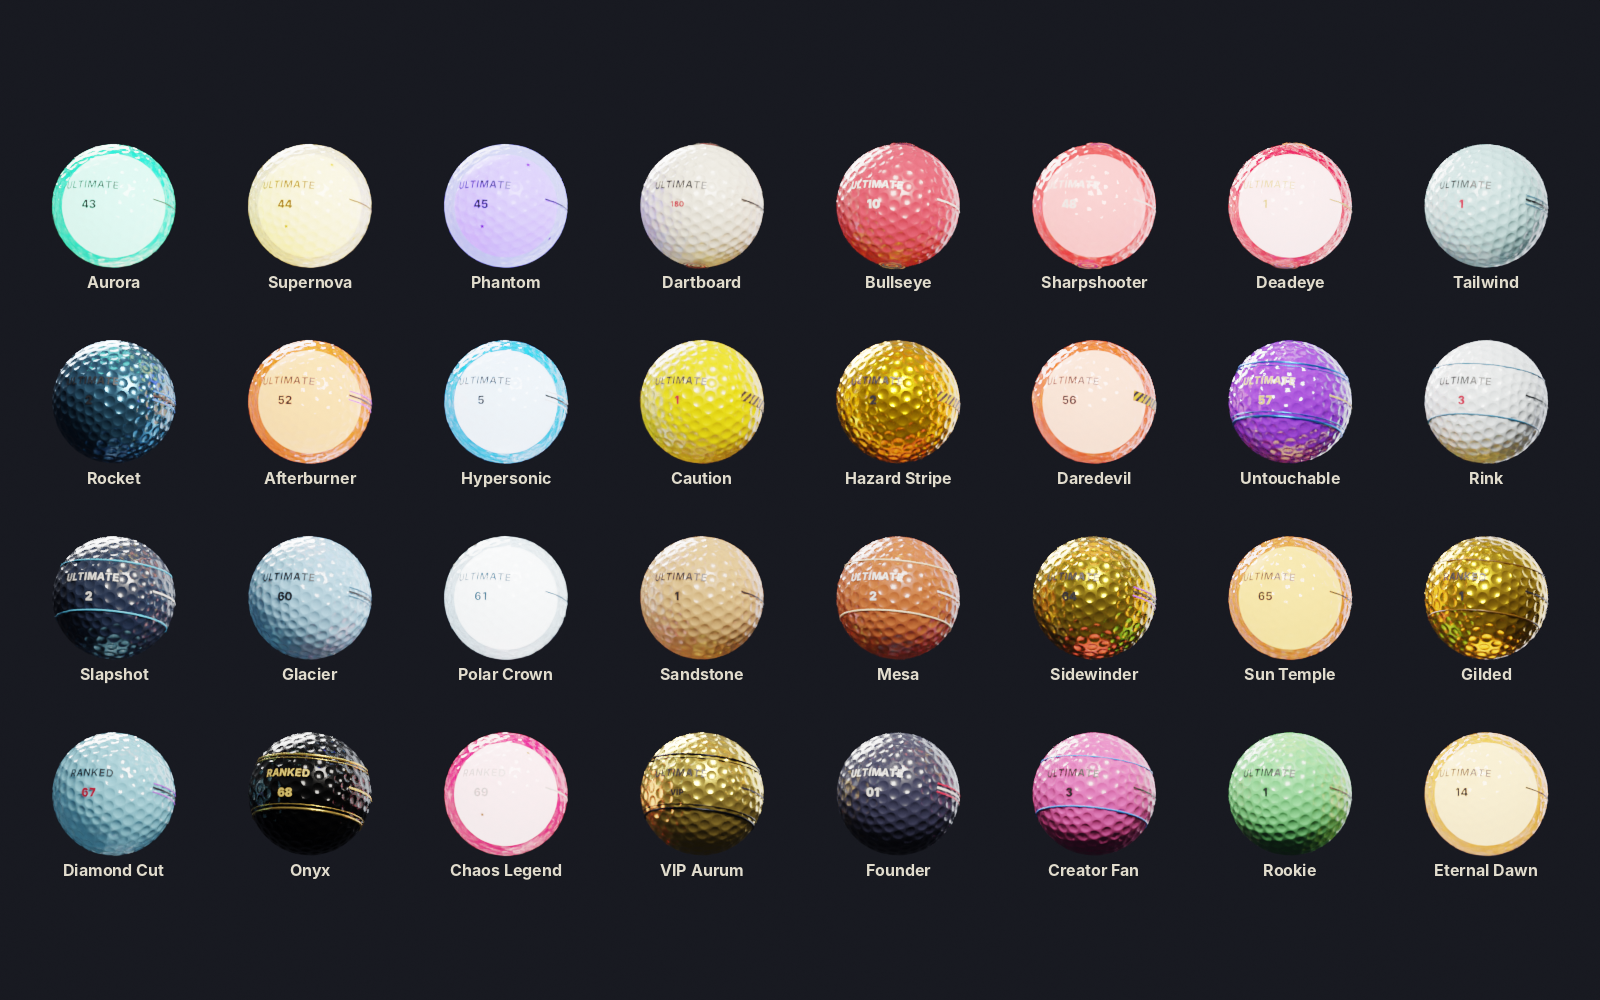
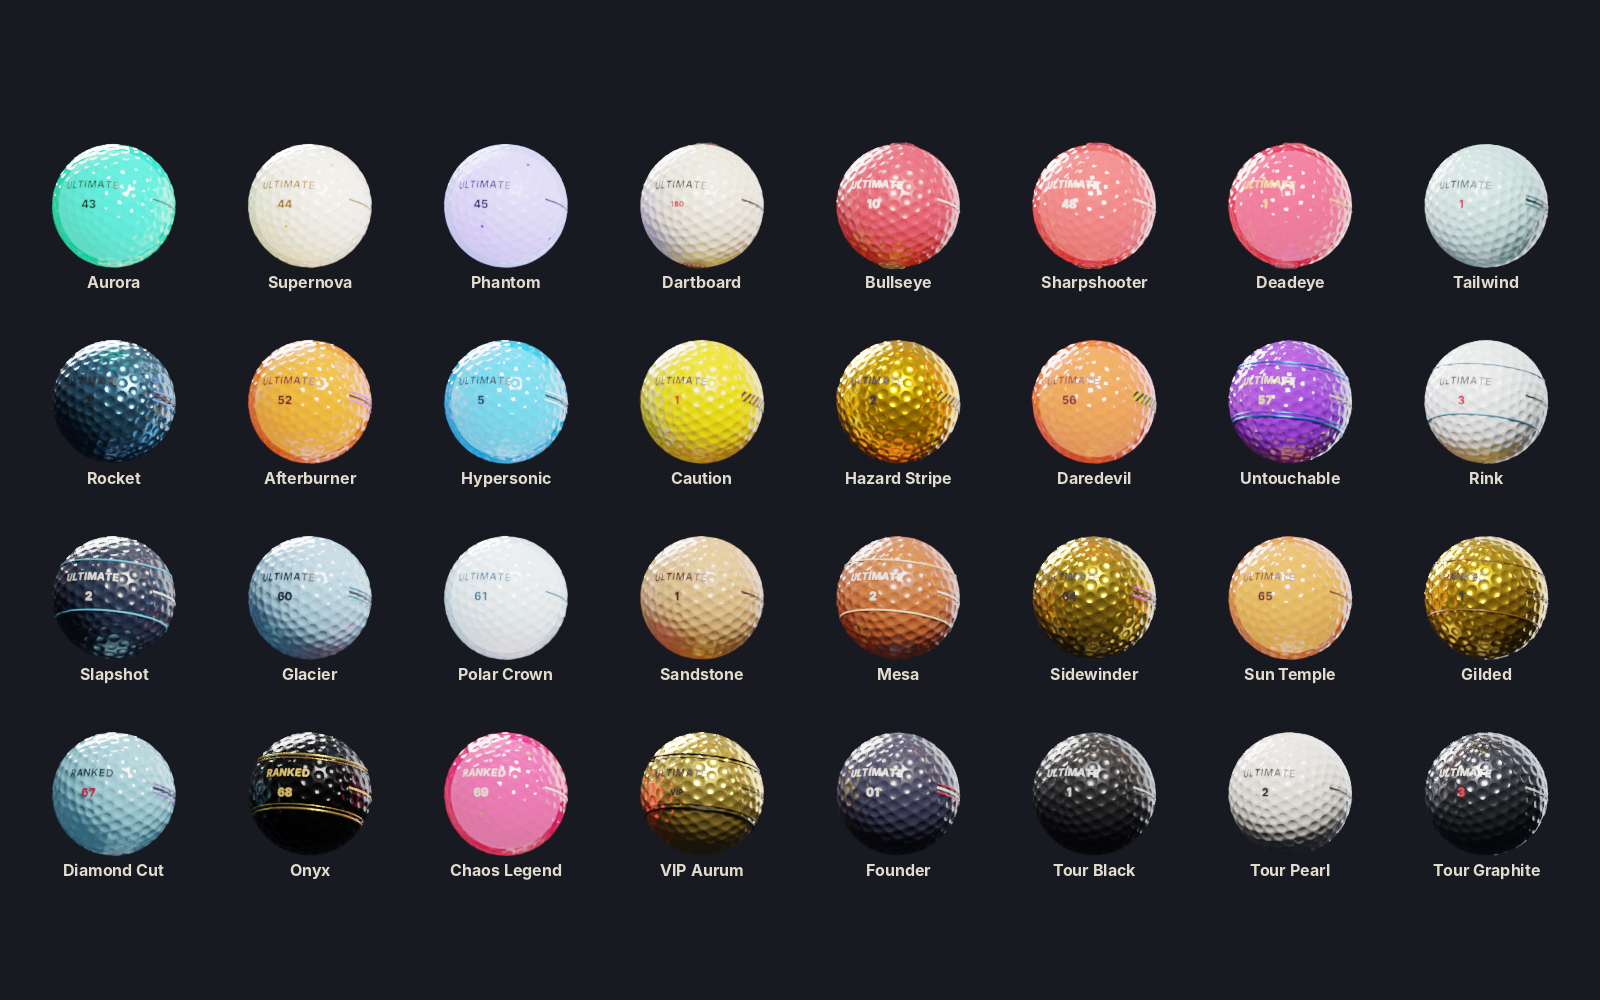
Studio exclusive shades, 9 R$ limited ball, softer glow balls
- Ball Studio: six shades no other ball wears (Sage, Mauve, Cornflower, Peach,
  Mulberry, Bronze Olive) and four inks; unit test keeps every skin clear of
  them; retired shades migrate to the default.
- Corny Games Studio limited ball is a 9 R$ developer product: the vault
  prompts the purchase, the receipt reserves the serial; a late or duplicate
  receipt pays 200 coins instead.
- Glowing balls glow softly: mostly opaque shell, inner light that nearly
  fills it and takes the shell's hue, dimmer point light, sparser aura,
  gentler rainbow.
- New Studio pass and limited product icons; refreshed collection sheets.

Claude-Session: https://claude.ai/code/session_018X1FwFM7GZ5JkuTghsAPuQ

diff --git a/chaos-golf/tools/gen_pass_icons.py b/chaos-golf/tools/gen_pass_icons.py
@@ -1,14 +1,15 @@
 #!/usr/bin/env python3
-"""Ultimate Golf - icons for the cosmetic passes (Ball Studio, Tour, Heritage, Members Club).
+"""Ultimate Golf - icons for the cosmetic passes (Ball Studio, Tour, Heritage, Members Club)
+and the limited Corny Games Studio ball product.
 
 Composites transparent ball renders (tools/render_balls.py --transparent) onto a club-style
 badge. Content stays inside the central circle (Roblox crops pass icons to a circle).
 
 Usage:
   tests/boot/dump_balls.sh <luau> <defs> balls.txt
-  python tools/render_balls.py balls.txt --only tour_black,tour_pearl,tour_graphite,heritage_cream,heritage_forest,heritage_oxblood \
+  python tools/render_balls.py balls.txt --only tour_black,tour_pearl,tour_graphite,heritage_cream,heritage_forest,heritage_oxblood,corny_studio \
       --views three --transparent --res 900x900 --out RENDERS
-  python3 tools/gen_pass_icons.py RENDERS
+  python3 tools/gen_pass_icons.py RENDERS [icon.png ...]
 """
 import math
 import os
@@ -119,12 +120,13 @@ def tinted(renders, ball_id, size, rgb):
 
 def studio(renders):
     img = badge((38, 40, 46), (12, 13, 15), (226, 185, 91))
-    colours = [(31, 91, 255), (200, 16, 46), (232, 240, 50), (46, 139, 87)]
+    # The studio-only shades (Skins.Studio.Colors): Mulberry, Cornflower, Peach, Bronze Olive.
+    colours = [(122, 46, 78), (122, 156, 217), (246, 193, 160), (122, 106, 46)]
     spots = [(S * 0.25, S * 0.47, 250), (S * 0.75, S * 0.47, 250), (S * 0.36, S * 0.36, 230), (S * 0.64, S * 0.36, 230)]
     for (x, y, size), rgb in zip([spots[2], spots[3], spots[0], spots[1]], colours):
         b = tinted(renders, "tour_pearl", size, rgb)
         img.alpha_composite(b, (int(x - b.size[0] / 2), int(y - b.size[1] / 2)))
-    centre = ball(renders, "tour_pearl", 400)
+    centre = tinted(renders, "tour_pearl", 400, (156, 175, 136))  # Sage
     shadow(img, (S * 0.5, S * 0.55 + 190), 400)
     img.alpha_composite(centre, (int(S * 0.5 - centre.size[0] / 2), int(S * 0.55 - centre.size[1] / 2)))
     dr = ImageDraw.Draw(img)
@@ -134,17 +136,37 @@ def studio(renders):
     return img
 
 
+def limited(renders):
+    gold = (226, 185, 91)
+    img = badge((34, 32, 30), (8, 8, 9), gold)
+    b = ball(renders, "corny_studio", 520)
+    shadow(img, (S * 0.5, S * 0.47 + 250), 520, 140)
+    img.alpha_composite(b, (int(S * 0.5 - b.size[0] / 2), int(S * 0.47 - b.size[1] / 2)))
+    dr = ImageDraw.Draw(img)
+    f = font(FONT, 84)
+    w = dr.textlength("LIMITED", font=f)
+    dr.text(((S - w) / 2, S * 0.76), "LIMITED", font=f, fill=gold + (255,))
+    f2 = font(FONT_SEMI, 40)
+    w2 = dr.textlength("500 EVER MADE", font=f2)
+    dr.text(((S - w2) / 2, S * 0.855), "500 EVER MADE", font=f2, fill=(236, 238, 242, 255))
+    return img
+
+
 def main():
     renders = sys.argv[1] if len(sys.argv) > 1 else os.path.join(ROOT, "docs", "renders", "balls")
     os.makedirs(OUT, exist_ok=True)
+    only = set(sys.argv[2:])  # optional: just these icons, e.g. pass_studio.png
     icons = {
-        "pass_tour.png": trio(renders, ["tour_black", "tour_pearl", "tour_graphite"], (40, 42, 47), (12, 13, 15), (226, 185, 91), "TOUR", (236, 238, 242)),
-        "pass_heritage.png": trio(renders, ["heritage_cream", "heritage_forest", "heritage_oxblood"], (28, 74, 55), (11, 32, 24), (226, 185, 91), "HERITAGE", (239, 230, 207)),
-        "pass_members.png": members(),
-        "pass_studio.png": studio(renders),
+        "pass_tour.png": lambda: trio(renders, ["tour_black", "tour_pearl", "tour_graphite"], (40, 42, 47), (12, 13, 15), (226, 185, 91), "TOUR", (236, 238, 242)),
+        "pass_heritage.png": lambda: trio(renders, ["heritage_cream", "heritage_forest", "heritage_oxblood"], (28, 74, 55), (11, 32, 24), (226, 185, 91), "HERITAGE", (239, 230, 207)),
+        "pass_members.png": members,
+        "pass_studio.png": lambda: studio(renders),
+        "product_limited_ball.png": lambda: limited(renders),
     }
-    for name, img in icons.items():
-        img.resize((FINAL, FINAL), Image.LANCZOS).save(os.path.join(OUT, name))
+    for name, make in icons.items():
+        if only and name not in only:
+            continue
+        make().resize((FINAL, FINAL), Image.LANCZOS).save(os.path.join(OUT, name))
         print("wrote", os.path.join(OUT, name))
 
 

diff --git a/chaos-golf/tools/setup_monetization.py b/chaos-golf/tools/setup_monetization.py
@@ -24,7 +24,7 @@ PASSES = [  # (Config key, name, price, description, icon, for sale)
      "pass_celebrations.png", True),
     ("Founder", "Founder", 99, "Founder Epic skin and the FOUNDER title. Launch only!", "pass_founder.png", True),
     ("BallStudio", "Ball Studio", 199,
-     "Paint your own ball in the Locker: 24 colours, 4 finishes (gloss, matte, pearl, metallic) and 6 print inks. Cosmetic only.",
+     "Paint your own ball in the Locker: 6 shades no other ball has (Sage, Mauve, Cornflower, Peach, Mulberry, Bronze Olive), 4 finishes and 4 print inks. Cosmetic only.",
      "pass_studio.png", True),
     ("TourCollection", "Tour Collection", 299,
      "Three tour balls for your locker: Tour Black, Tour Pearl and Tour Graphite. Cosmetic only.", "pass_tour.png", True),
@@ -41,6 +41,9 @@ PRODUCTS = [  # (Config key, name, price, description, icon)
     ("MythicCrate", "Mythic Featured Crate", 99,
      "Open 1 Mythic Featured Crate (odds shown in game). If the global stock is sold out you get 6,000 coins instead.",
      "product_mythic_crate.png"),
+    ("LimitedBall", "Corny Games Studio Ball", 9,
+     "One numbered Corny Games Studio ball (500 ever made). If the last copy sells first you get 200 coins instead.",
+     "product_limited_ball.png"),
 ]
 
 

diff --git a/chaos-golf/docs/GDD.md b/chaos-golf/docs/GDD.md
@@ -50,7 +50,7 @@ A circular marble-and-walnut atrium (radius 56) under an oak ceiling on black-st
 ### East: Pro Shop
 
 - **Ball collection**: 12 balls in jewellery-style glass cases (walnut plinths, brass edges, velvet decks, engraved plaques). A balanced set (5 Common, 4 Rare, 2 Epic, 1 Legendary) every 10 minutes, the same in every server; the hanging board by the entrance counts down.
-- **Limited vault** in the middle of the runner: the **Corny Games Studio** ball, 500 ever made (global stock), each printed with its serial, behind velvet ropes.
+- **Limited vault** in the middle of the runner: the **Corny Games Studio** ball, 500 ever made (global stock), each printed with its serial, behind velvet ropes. It's a small **9 R$** buy (developer product `LimitedBall`): the copy is reserved when the receipt comes in, and if the last one sold in the meantime the buyer gets 200 coins instead.
 - **Four category crates** (Ball Skins, Trails, Knockout Effects, Arrow Skins) with odds boards and pity; the **Mythic Featured shrine** with its global stock counter; pass pedestals and coin-pack kiosks.
 - **Catalog terminal**: data-driven grid (`ShopCatalog`): Rotation / Crates / Locker / Passes.
 
@@ -135,13 +135,13 @@ Adding a map is one line in `src/shared/Maps.luau`.
 
 | Category | Count | Built-in effects | Sources |
 |---|---|---|---|
-| Ball Skins | 77 | Epic+ auto aura; Legendary+ glow; pulse/rainbow animation | Coin Shop, Skin Crate, Mythic Featured, tokens, Ranked tiers, passes, creator code, achievements, Day 14 |
+| Ball Skins | 77 | Epic+ auto aura; Legendary+ glow; pulse/rainbow animation. Glowing balls are lit from inside: a mostly opaque tinted shell (dimples still read) over an inner light that nearly fills it and takes the shell's hue, a soft point light and a sparse aura - an even glow, never a white-hot disc | Coin Shop, Skin Crate, Mythic Featured, tokens, Ranked tiers, passes, creator code, achievements, Day 14 |
 | Trails | 14 | Glow + sparks on Epic+ | Trail Crate, login |
 | Knockout Effects | 11 | 9 styles (Burst, Stars, Ring, Confetti, Shatter, Lightning, Flames, Vortex, Nova) | Knockout Crate, login |
 | Arrow Skins | 12 | 6 styles, pulse on Epic+ | Arrow Crate, login |
 | Celebrations | 4 | Cup-sink effect | Celebration Pack pass |
 
-**Game passes** (Store tab; set up with `tools/setup_monetization.py`, icons in `assets/icons`): the cosmetic passes lead, classy and never an edge: **Ball Studio** (199: paint your own ball in the Locker's Studio section - 24 colours, gloss/matte/pearl/metallic finishes and 6 print inks; everyone sees the Studio cards, locked ones offer the pass; the look is saved and worn into every match), **Tour Collection** (299: Tour Black, Tour Pearl, Tour Graphite balls), **Heritage Collection** (249: pinstriped Cream, Forest and Oxblood club balls), **Members Club** (199: Members Contrail trail, Members Line aim, MEMBER nametag); then VIP (+10% coins, VIP Aurum, gold name), Celebration Pack, 2x Coins and Founder. Ball upgrades stay off in Ranked and power-ups are never sold.
+**Game passes** (Store tab; set up with `tools/setup_monetization.py`, icons in `assets/icons`): the cosmetic passes lead, classy and never an edge: **Ball Studio** (199: paint your own ball in the Locker's Studio section - six shades no other ball has (Sage, Mauve, Cornflower, Peach, Mulberry, Bronze Olive; a unit test keeps every other skin clear of them), gloss/matte/pearl/metallic finishes and 4 print inks (black, white, gold, silver); everyone sees the Studio cards, locked ones offer the pass; the look is saved and worn into every match), **Tour Collection** (299: Tour Black, Tour Pearl, Tour Graphite balls), **Heritage Collection** (249: pinstriped Cream, Forest and Oxblood club balls), **Members Club** (199: Members Contrail trail, Members Line aim, MEMBER nametag); then VIP (+10% coins, VIP Aurum, gold name), Celebration Pack, 2x Coins and Founder. Ball upgrades stay off in Ranked and power-ups are never sold.
 
 **14-day login calendar** (claim at the Rewards station; missing a day restarts the streak): coins, keys for all four crates, the Daily Spark trail, Sunrise Chevron arrow, Daily Fireworks knockout, and on **Day 14 the exclusive Legendary "Eternal Dawn" ball** (unique golden ray aura) plus 1,500 coins.
 
